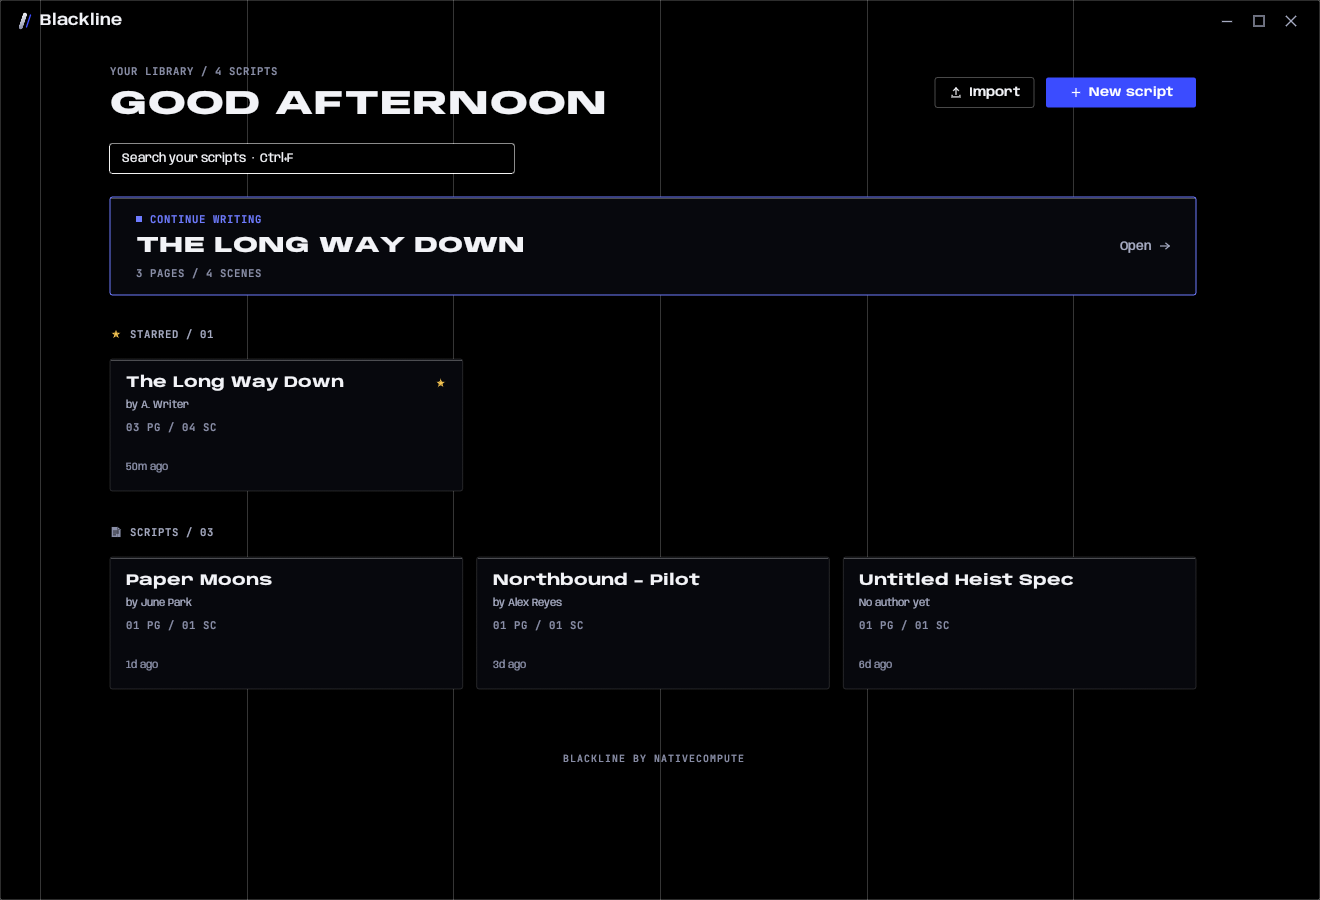
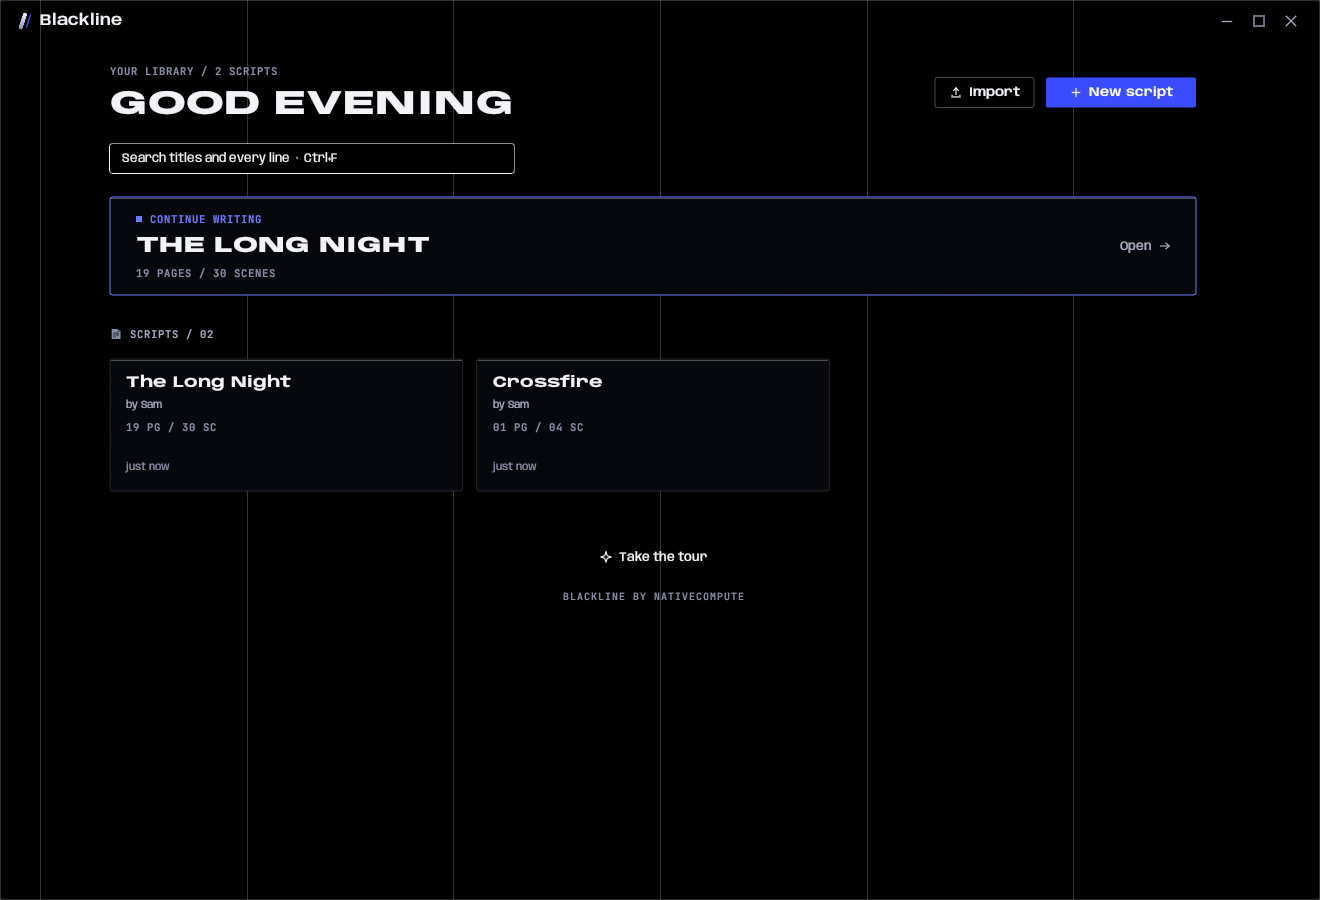
Blackline 2.1.0: Blue Pages
Version 2.1.0. The README covers everything new, the new markers in the
file format and the new shortcuts, and the screenshots are fresh, with
new ones for reports, revisions, find and the tour.

diff --git a/README.md b/README.md
@@ -17,11 +17,61 @@ and one signal blue; Anybody for display type and JetBrains Mono for HUD
 readouts; hairline borders, square corners and no glass or glows. There is one
 look, in a dark cast and a light one.
 
-![Writing: acts as chapter headings, the scene navigator on the right](docs/blackline-write.png)
+![Writing: notes on the left, dual dialogue side by side, the scene navigator on the right](docs/blackline-write.png)
 
 ![Home: your library as cards](docs/blackline-home.png)
 
-![Cards: the script as a wall of index cards](docs/blackline-cards.png)
+![Cards: storylines, the timeline with beat guides, and the scenes as index cards](docs/blackline-cards.png)
+
+---
+
+## New in 2.1: Blue Pages
+
+Named after the first round of production changes, which go out on blue paper.
+
+- **Dual dialogue.** Two characters talking at once. Put the cursor in the
+  second speech and press `Ctrl+D`; the pair sits side by side in the editor,
+  in Reading mode and in print, and is never split across a page. Fountain
+  (`^`) and Final Draft carry it both ways.
+- **Script notes.** `Ctrl+M`, or right-click a line, to leave yourself a note.
+  A marker sits in the margin, the note itself shows beside the page when the
+  window is wide enough, and the panel on the left lists every note with its
+  page and scene. Notes only print when you ask, as endnotes.
+- **Revision mode.** Start a revision from the *Changes* tab. Every changed
+  line gets an asterisk in the margin, changed pages carry a header such as
+  `Blue Rev. 11/04/26`, and each round takes the next colour: blue, pink,
+  yellow, green, goldenrod, buff, salmon, cherry. **Lock pages** keeps every
+  page on its number; new material goes onto A-pages (`12A`, `12B`). Export can
+  print just the changed pages, on tinted paper if you like.
+- **Reports.** `Ctrl+Shift+R`: characters (cues, lines, words, share of the
+  dialogue, first appearance), scenes, locations and day and night, all
+  measured on the printed layout, each one copyable as text.
+- **Find across all scripts.** Home's search looks inside every script, not
+  just titles; a click opens the script on that line. `Ctrl+Shift+F` gets
+  there from anywhere.
+- **Beat tools in Cards.** Name the card colours as storylines and filter the
+  board by them. A timeline shows the whole script to scale, coloured by
+  storyline, with act breaks and guides at the usual turning points.
+- **A gentler first run.** A short tour for new people, and a *what's new* for
+  people updating, shown once. *Take the tour* on Home brings it back.
+- **Imports that say what changed.** Anything a Fountain or Final Draft file
+  had that Blackline could not keep exactly is listed, with a link to where it
+  happened.
+- **More room to write.** The script list has left the writing view; the
+  *Library* button at the left of the ribbon goes back to it.
+- **Update status** on the splash, and a notice on Home when a new version is
+  out, with a *Download* button.
+
+Every script from an earlier Blackline opens and saves exactly as before. The
+new markers are only written into a script once you use the feature.
+
+![Reports: characters, scenes, locations, day and night](docs/blackline-reports.png)
+
+![Revision mode: asterisks, the revision header and A-pages](docs/blackline-revision.png)
+
+![Find across all scripts from Home](docs/blackline-find.png)
+
+![The tour](docs/blackline-tour.png)
 
 ---
 
@@ -95,7 +145,7 @@ the three window buttons along the top, the whole strip draggable, a
 double-click to maximise, and invisible grips down every edge for resizing.
 
 The window is void black with the website's faint column guides drawn across
-it. Anything you *work in* — the library, the page, the scene navigator — is a
+it. Anything you *work in* — the notes panel, the page, the scene navigator — is a
 panel on it: opaque, with a 1px hairline and 2px corners. The Write | Cards |
 Read switch is the site's tab strip; buttons fill from the left when you reach
 for them; counts, pages and timings are mono HUD readouts.
@@ -104,7 +154,8 @@ for them; counts, pages and timings are mono HUD readouts.
 
 ## Three views
 
-The switch at the left of the ribbon (`Ctrl+G` steps through them):
+The switch near the left of the ribbon (`Ctrl+G` steps through them). Left of
+it, **Library** goes back to Home and all your scripts.
 
 **Write** — the script, one typed block per paragraph, at industry indents in
 Courier Prime. The block you are in gets a wash of the accent; every scene
@@ -127,8 +178,12 @@ mode too, or stay in the editor.
 **Cards** — every scene as an index card: its number, heading, where it falls
 and how long it runs (in eighths of a page), who speaks in it, and a synopsis
 you write straight onto the card. Drag a card by its head to move the whole
-scene; right-click for a card colour or to delete the scene (it asks first,
-and `Ctrl+Z` brings it back).
+scene; right-click for a storyline colour or to delete the scene (it asks first,
+and `Ctrl+Z` brings it back). Above the cards, the storylines (name them with
+*Name*, click one to show only its scenes) and a timeline of the whole script
+to scale, with beat guides at 10, 25, 50, 75 and 90 percent of the page count
+(*Beats* in the ribbon turns them off). Click a scene on the timeline to go to
+its card.
 
 **Read** — Reading mode: the script exactly as it will print, one page at a
 time, typeset, drawn from the same layout pass the PDF is written from — no
@@ -136,6 +191,9 @@ bands, tags or stars. The page is sized so all of it is in view, and opens on
 the page you were writing. Turn it with `←` `→`, `Page Up` `Page Down`,
 `Home` `End`, the scroll wheel, or the control under the page. Click any
 line to go and write it.
+
+On the left, **Notes and changes** (`Ctrl+B`): every note in script order, and
+every line changed in the revision you are running. Click one to go to it.
 
 On the right, **Details** (`Ctrl+I`, or the ⓘ in the ribbon) is the script's
 title page — title, author, draft, contact — and what the script adds up to:
@@ -164,15 +222,18 @@ and the type decides the indent, the width, and whether it is forced to caps.
 | `↑` / `↓` at the edges of a block | Move between blocks |
 | `Alt+↑` / `Alt+↓` | Move the whole block up or down |
 | `Ctrl+Enter` | A new scene straight after the one you are in |
+| `Ctrl+D` | Dual dialogue: pair this speech with the one before it, or unpair it |
+| `Ctrl+M` or `Ctrl+K` | Add a note to this line, or edit it |
 | `Ctrl+S` | Save now (also renames the file to match the title) |
 | `Ctrl+Z` / `Ctrl+Shift+Z` or `Ctrl+Y` | Undo / redo, document-wide |
 | `Ctrl+N` | New script — its title is selected, ready to type over |
 | `Ctrl+E` | Quick Export: PDF, then open it (or show it, or nothing — Settings) |
 | `Ctrl+Shift+E` | Export PDF…: choose pages, title page, scene numbers, character colours |
 | `Ctrl+F` / `Ctrl+H` | Find and replace in the script |
-| `Ctrl+Shift+F` | Filter the library |
+| `Ctrl+Shift+F` | Search every script, from Home |
+| `Ctrl+Shift+R` | Reports |
 | `Ctrl+G` | Write → Cards → Read |
-| `Ctrl+B` | Show / hide the library |
+| `Ctrl+B` | Show / hide Notes and Changes |
 | `Ctrl+I` | Show / hide the script's details |
 | `Ctrl+Shift+I` | Show / hide the scene navigator |
 | `Ctrl+.` | Focus: hide both side islands and dim everything outside this scene |
@@ -265,6 +326,18 @@ heading as an HTML comment, which markdown viewers hide. A starred script has
 `starred: yes` in its front matter. Both are only written when used, so a
 script without them is byte-for-byte what the first Blackline wrote.
 
+Blue Pages adds a few more, on the same terms:
+
+| Feature | In the file |
+|---|---|
+| Dual dialogue | a caret in the cue: `**JONAS ^**` |
+| A note | Fountain's own note syntax at the end of the line: `> Fine. [[softer]]` |
+| Named storylines | front matter `storylines: 0=Maria; 1=The heist` |
+| A revision | front matter `revision: blue`, `revision_date:`, `revision_base:` (the snapshot it started from) and `locked: yes` |
+
+Changed lines are worked out by comparing the script with the snapshot its
+revision started from, so the text itself carries no revision marks.
+
 Drop a hand-written file into `scripts/` following those rules and it shows up
 in the library on its own. Anything unrecognised becomes action rather than
 being dropped.
@@ -292,7 +365,10 @@ whole script.
 
 **Import** — the arrow beside *New script*, the `⋯` menu, dropping a file onto
 the window, or `blackline some-file.fountain` — reads Fountain, Final Draft
-and Blackline markdown into a new script. The file picker is Windows' own on
+and Blackline markdown into a new script. When the file had anything Blackline
+could not keep exactly (scene numbers, deeper sections, page breaks, centred
+text, lyrics, title page fields, Final Draft paragraph types or script notes),
+a window lists each kind with a count and a *Show me* link to where it was. The file picker is Windows' own on
 Windows; on Linux, KDE's dialog (`kdialog`) where there is one, GNOME's
 (`zenity`) otherwise.
 
@@ -336,7 +412,7 @@ their hairlines, and motion stays within the site's 100–300 ms.
 [YouTrack](https://www.jetbrains.com/youtrack/) is JetBrains' issue tracker
 and project management tool. If your production keeps its notes and tasks
 there, paste your workspace's link into Settings → YouTrack and a **View on
-YouTrack** button appears at the foot of the library. The link is empty until
+YouTrack** button appears at the foot of Home and of the notes panel. The link is empty until
 you set one, and the button stays hidden until then.
 
 ---
@@ -348,7 +424,9 @@ on [GitHub](https://github.com/NativeCompute/blackline/releases). It sends one
 request to GitHub's public API and nothing else — no account, no identifier,
 just the app's version in the request header. When there is a newer version it
 says so and links to the release page; nothing is downloaded or installed by
-itself. Turn it off in Settings → About.
+itself. The splash card says how the check went, and Home shows a notice with
+a *Download* button while a newer version is out; dismiss it and that version
+does not come up again. Turn the check off in Settings → About.
 
 ---
 
@@ -407,7 +485,7 @@ follows the [code of conduct](CODE_OF_CONDUCT.md).
 ## Development
 
 ```bash
-cargo test          # 106 tests: behaviour, files, formats, headless UI
+cargo test          # 141 tests: behaviour, files, formats, headless UI
 cargo build --release
 ./target/release/blackline --emit-icon icon.svg   # the mark, as the app draws it
 ./target/release/blackline --emit-ico packaging/blackline.ico   # the Windows icon
@@ -424,12 +502,17 @@ the dark and light casts are all exercised for real.
 | `src/backend.rs` | The `Store` trait the app reads and writes through; `LocalBackend` is the library folder |
 | `src/model.rs` | Elements, indents, blocks, scenes, cast, word wrap, paste guessing, SmartType |
 | `src/storage.rs` | The library folder, markdown read/write, snapshots, settings, import |
-| `src/export.rs` | Line composition, pagination, page map, scene lengths, PDF/FDX/Fountain/text |
+| `src/export.rs` | Line composition, pagination (and locked pages with A-pages), page map, scene lengths, PDF/FDX/Fountain/text |
 | `src/fountain.rs` | Fountain and Final Draft readers |
 | `src/editor.rs` | The page: block rendering and every structural keystroke |
 | `src/cards.rs` / `src/pages.rs` | Cards, and Reading mode |
-| `src/app.rs` | Shell — ribbon, library, navigator, popovers, autosave, undo |
-| `src/app/home.rs` | Home: the script picker the app opens on |
+| `src/app.rs` | Shell — ribbon, navigator, popovers, autosave, undo |
+| `src/app/home.rs` | Home: the script picker the app opens on, search inside every script, the update notice |
+| `src/app/notes.rs` | The note window, the Notes and Changes panel, starting and ending a revision |
+| `src/app/reports.rs` `src/report.rs` | The Reports window, and the figures behind it |
+| `src/app/imported.rs` | The window listing what an import could not keep |
+| `src/app/onboarding.rs` | The tour and *what's new* |
+| `src/revision.rs` | Revision colours, the diff against the starting snapshot |
 | `src/app/team.rs` `src/people.rs` | Screens for a shared library: read-only scripts, history, members, avatars. Not shown for a library on disk |
 | `src/app/voices.rs` | Choosing character colours: Random or Custom, the colour picker |
 | `src/keys.rs` `src/app/keyboard.rs` | Every shortcut and its default chords, the ones you choose instead, and Settings → Keyboard |
